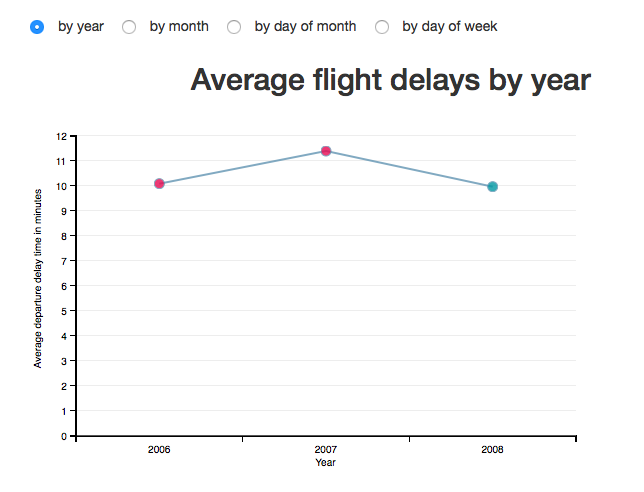
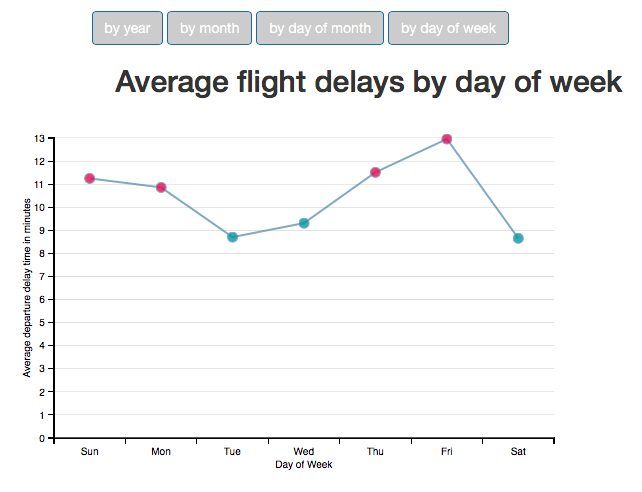
Final update

diff --git a/index.html b/index.html
@@ -88,7 +88,7 @@
           </p>
           <p class="lead">
             What about other time periods? Let's quickly explore year, month, day of month and day of week using the
-            radio buttons below.
+            buttons below.
           </p>
         </div>
       </div>
@@ -100,16 +100,23 @@
     <section class="fill">
 
       <div class="row">
-        <div class="col-md-8 col-md-offset-2">
-
+        <div class="col-sm-6 col-md-offset-3">
           <div id="actions">
             <div>
-              <input type="radio" name="chart" class="chart" id="year" value="AvgDelayByYearContainer" checked>by year
-              <input type="radio" name="chart" class="chart" id="month" value="AvgDelayByMonthContainer">by month
-              <input type="radio" name="chart" class="chart" id="dayOfMonth" value="AvgDelayByDateContainer">by day of month
-              <input type="radio" name="chart" class="chart" id="dayOfWeek" value="AvgDelayByDayContainer">by day of week
+              <button type="submit" class="btn btn-primary" name="chart" class="chart" id="year" value="AvgDelayByYearContainer" checked>by year</button>
+              <button type="submit" class="btn btn-primary" name="chart" class="chart" id="month" value="AvgDelayByMonthContainer">by month</button>
+              <button type="submit" class="btn btn-primary" name="chart" class="chart" id="dayOfMonth" value="AvgDelayByDateContainer">by day of month</button>
+              <button type="submit" class="btn btn-primary" name="chart" class="chart" id="dayOfWeek" value="AvgDelayByDayContainer">by day of week</button>
             </div>
           </div>
+        </div>
+      </div>
+
+
+      <div class="row">
+        <div class="col-md-8 col-md-offset-2">
+
+
           <div id="charts">
             <h2 id="ChartTitle" class="text-center">Average flight delays by year</h2>
             <div id="AvgDelayByYearContainer" class="chart"></div>

diff --git a/css/main.css b/css/main.css
@@ -1,11 +1,10 @@
 /* This is css file for html file */
 
-/* this adds formatting for radio buttons */
-input[type="radio"] {
-	margin: 10px 15px;
-	vertical-align: middle;
-	display:inline;      
-};
+.btn{
+    background: #ccc;
+} .btn:focus{
+    background: olive;
+}
 
 /* this hides the elements with word hidden in their labels */
 .hidden {

diff --git a/README.md b/README.md
@@ -17,7 +17,7 @@ After playing with data and different chart types I decided to go with line char
 ![First Chart](https://raw.githubusercontent.com/jayantsahewal/make-effective-data-visualization/master/img/Average%20Flight%20delay%20by%20hour%20-%20line%20chart.png)
 ![Second Chart](https://raw.githubusercontent.com/jayantsahewal/make-effective-data-visualization/master/img/Number%20of%20flights%20by%20hour%20-%20line%20chart.png)
 
-I chose not to combine these two charts for a number of reasons. First, combining these two charts made the visualization more complex and second because these two were representing different scales of the data.
+I chose not to combine these two charts for a two reasons. First, combining these two charts made the visualization more complex and second because these two were representing different scales of the data.
 
 I believe that after going through the first 2 charts, a curious reader will certainly ask what about the other time periods? Is there a relationship? So, satisfy the curiosity of the readers and complete the story, I have included a section where users can toggle between different time periods to see the relationship between chosen time period and departure delay. These line charts show that there is only a couple of minutes difference between the time periods with worst and best delays. Since the flight delay data was in the range of 0 to 16 minutes, I added a visual cue to make the data points red which were greater than 10 minutes in these charts. I added a tooltip message to show the amount of minutes to help the viewer.
 
